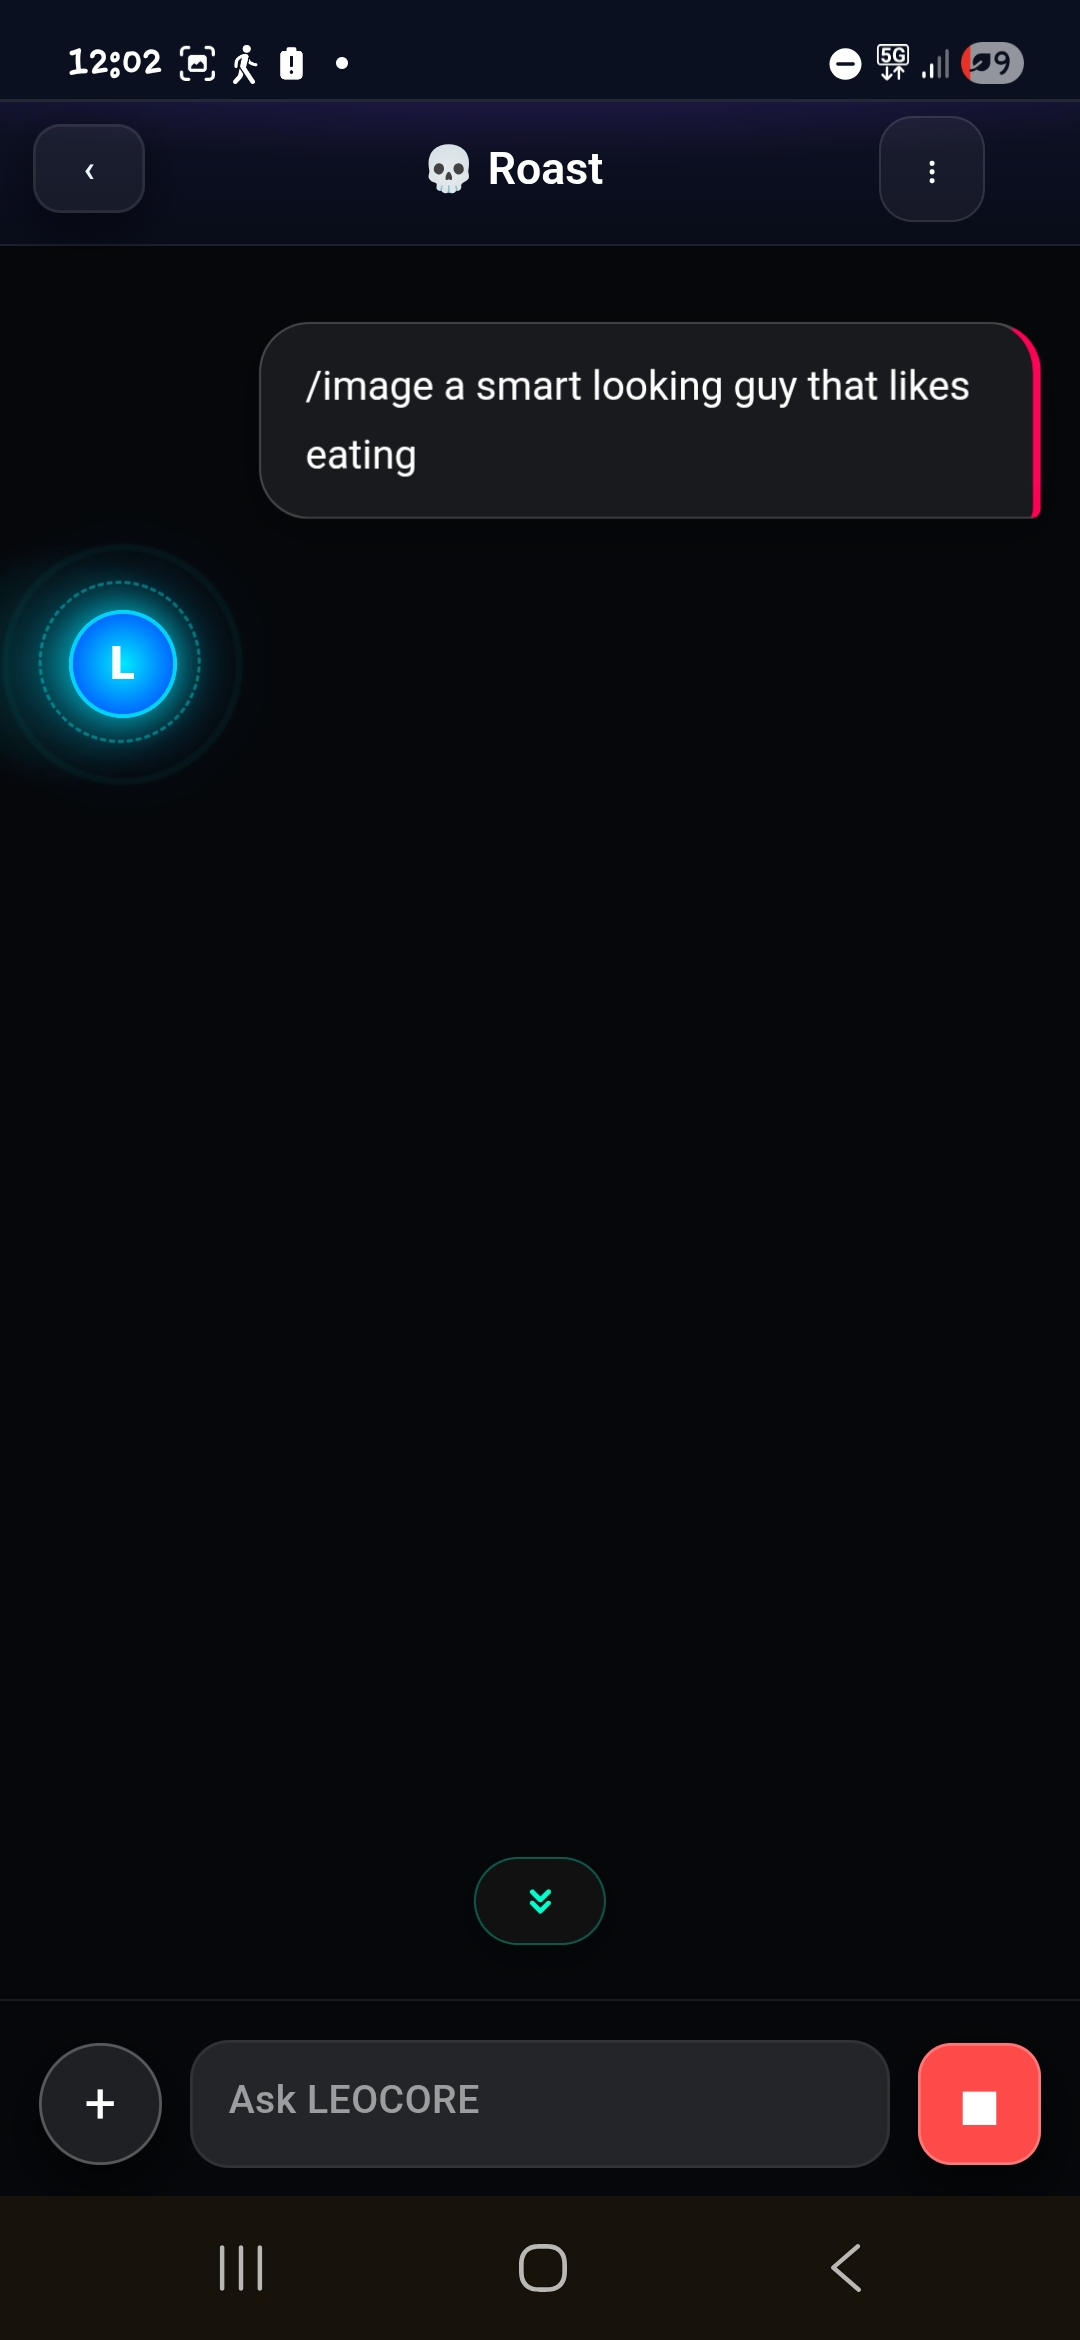
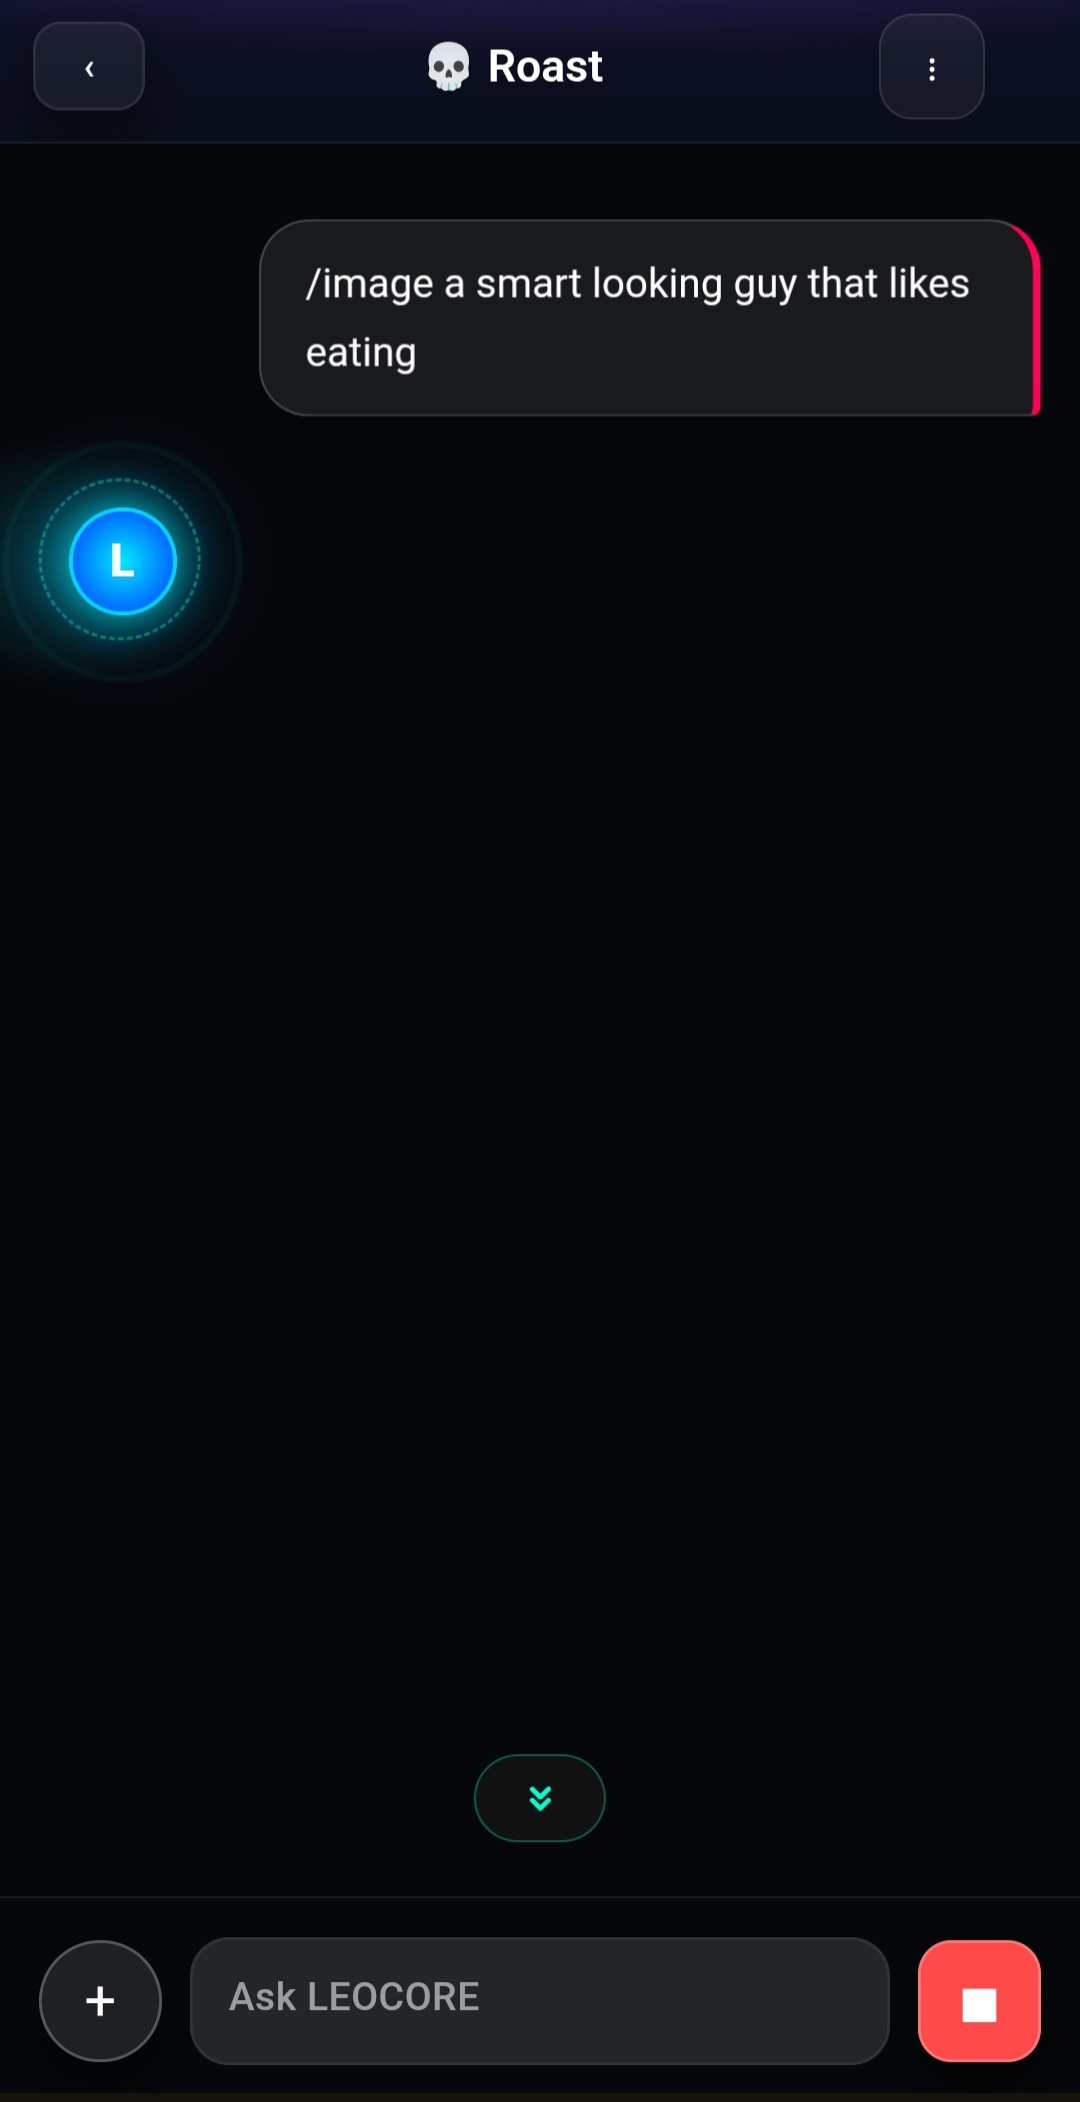
worked

diff --git a/index.html b/index.html
@@ -164,7 +164,7 @@
     }
     .hidden { display: none !important; }
   </style>
-  <link rel="stylesheet" href="/style.css?v=1779557318150">
+  <link rel="stylesheet" href="/style.css?v=1779557465430">
 
 
 
@@ -445,7 +445,7 @@
   </div>
 </div>
 
-<script src="/app.js?v=1779557318150" defer></script>
+<script src="/app.js?v=1779557465430" defer></script>
 
 <div id="menuOverlay" aria-hidden="true">
   
